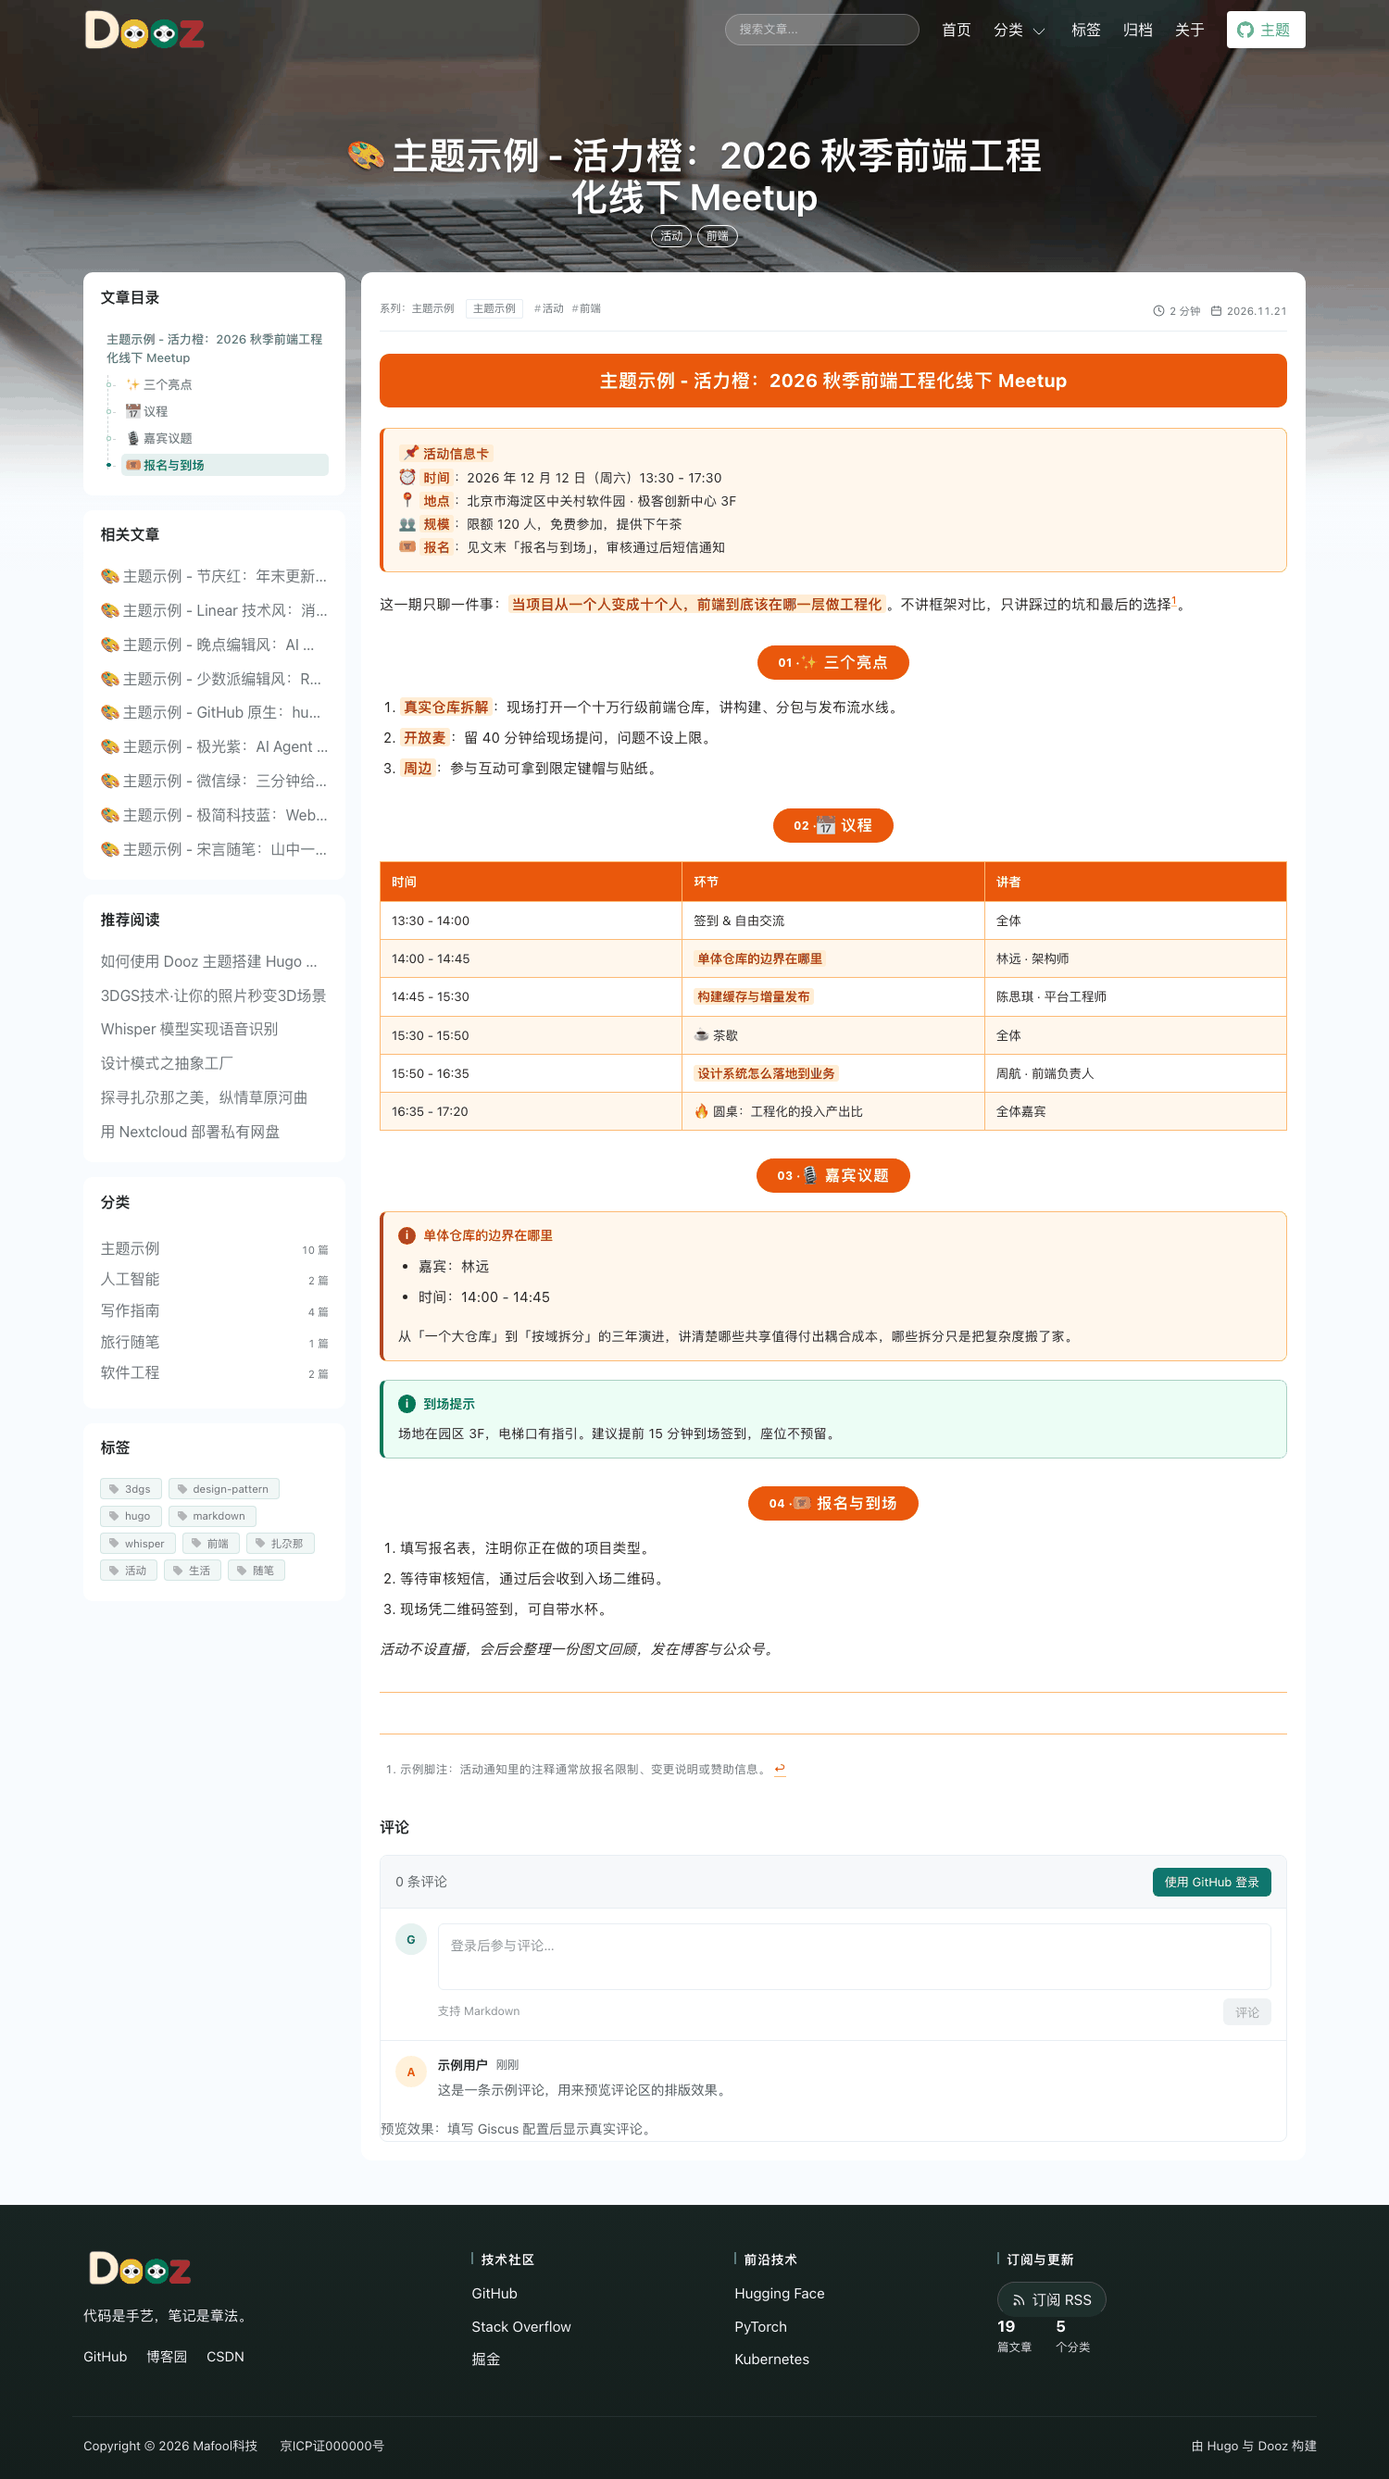
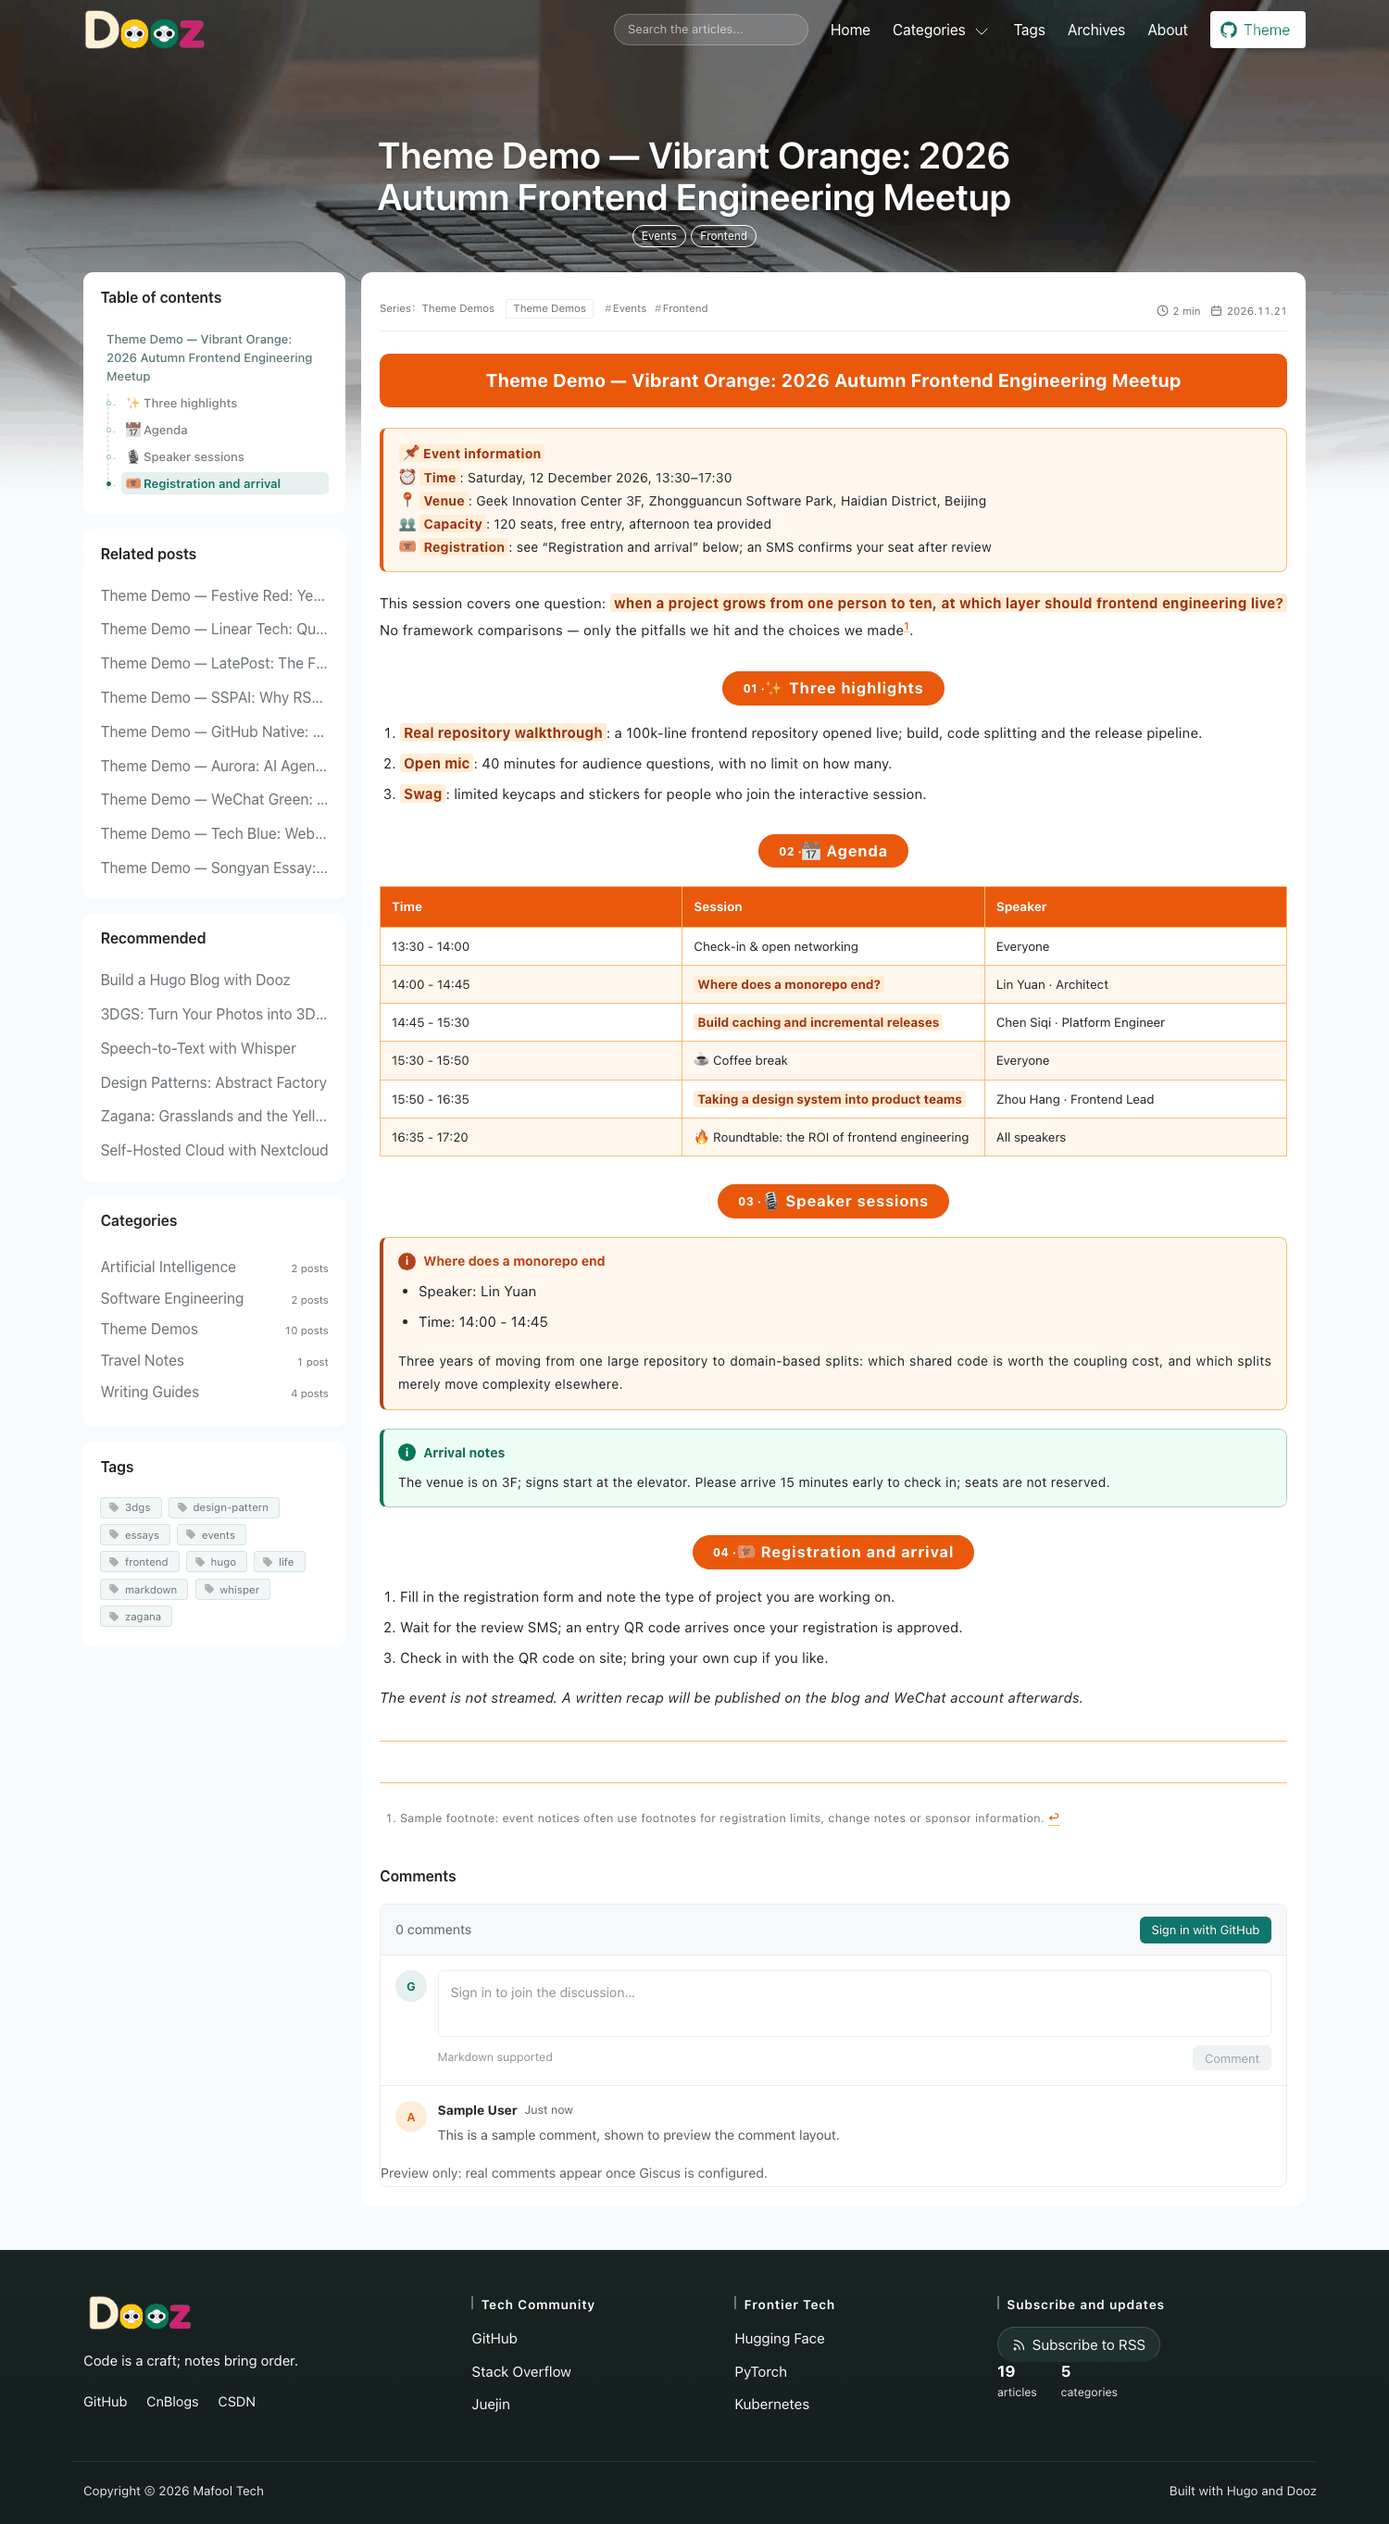
chore: streamline README quick start with example site section and link badges, update preview images

diff --git a/README.md b/README.md
@@ -1,40 +1,53 @@
 <div align="center">
 <img src="https://github.com/hollson/hugo-theme-dooz/blob/master/static/assets/logo2.png?raw=true" width="180" alt="Dooz Logo"><br/>
-<img src="https://img.shields.io/badge/Hugo-0.158%2B-ff4088?style=flat-square&logo=hugo&logoColor=white" alt="Hugo">
-<img src="https://img.shields.io/badge/Hugo%20Theme-Dooz-07c160?style=flat-square" alt="Hugo Theme">
-<img src="https://img.shields.io/badge/Markdown-supported-000000?style=flat-square&logo=markdown&logoColor=white" alt="Markdown">
-<img src="https://img.shields.io/badge/Typography-10%20themes-6f42c1?style=flat-square" alt="Typography">
-<img src="https://img.shields.io/badge/License-MIT-green?style=flat-square" alt="License">
+<a href="https://gohugo.io/"><img src="https://img.shields.io/badge/Hugo-0.158%2B-ff4088?style=flat-square&logo=hugo&logoColor=white" alt="Hugo"></a>
+<a href="https://github.com/hollson/hugo-theme-dooz"><img src="https://img.shields.io/badge/Hugo%20Theme-Dooz-07c160?style=flat-square" alt="Hugo Theme"></a>
+<a href="https://commonmark.org/"><img src="https://img.shields.io/badge/Markdown-supported-000000?style=flat-square&logo=markdown&logoColor=white" alt="Markdown"></a>
+<a href="https://github.com/hollson/hugo-theme-dooz/tree/master/exampleSite/content/post"><img src="https://img.shields.io/badge/Typography-10%20themes-6f42c1?style=flat-square" alt="Typography"></a>
+<a href="https://github.com/hollson/hugo-theme-dooz/blob/master/LICENSE"><img src="https://img.shields.io/badge/License-MIT-green?style=flat-square" alt="License"></a>
 <br/>
-<b>A Hugo blog theme built for reading, with typography you can pick per article</b>
+<b>A Hugo blog theme built for reading and free to customize</b>
 <br/>
 <a href="README.md">English</a> | <a href="README.zh.md">中文</a>
 <br/><br/>
 </div>
 
 
-Dooz is a Hugo blog theme focused on reading and writing: write in Markdown, pick one of ten typography styles for each article, and get search, table of contents and comments out of the box.
+Dooz is a [Hugo](https://gohugo.io) blog theme built for reading and writing: posts in Markdown, typography switchable per article, and search, table of contents and comments ready out of the box.
 
-<br/>
+---
 
-<div align="center">
-<!-- Preview images live in images/ -->
-<img src="https://github.com/hollson/hugo-theme-dooz/blob/master/images/screenshot.png?raw=true" width="100%" alt="Home page preview">
-<br/>
-<img src="https://github.com/hollson/hugo-theme-dooz/blob/master/images/preview-article.png?raw=true" width="100%" alt="Article page preview">
-<br/>
-<sub>Left: home list　Right: article page (any of ten typography styles)</sub>
-</div>
+![Home page preview](https://github.com/hollson/hugo-theme-dooz/blob/master/images/screenshot.png?raw=true)
+
 
 <br/>
 
 ## Quick start
 
-Requires Hugo 0.158 or newer.
+> Requires Hugo 0.158 or newer.
 
 **1. Install Hugo**: follow the [official guide](https://gohugo.io/installation/) for your platform. Run `hugo version` afterwards; a version number means it is ready.
 
-**2. Create a site and add the theme**
+**2. Try the example site**: see the result before building your own. It contains nearly twenty posts and covers every typography style.
+
+```bash
+git clone --depth 1 https://github.com/hollson/hugo-theme-dooz.git
+cd hugo-theme-dooz
+
+# Shortcut: start the example site (port 1314)
+make run
+```
+
+Without make, or to start it manually:
+
+```bash
+cd exampleSite
+hugo server --themesDir ../.. -p 1314
+```
+
+Open `http://localhost:1314` to browse the home page, article page, categories, tags, search and sidebar. Delete the folder when you are done.
+
+**3. Create your site and add the theme**
 
 ```bash
 hugo new site my-blog
@@ -46,28 +59,20 @@ git submodule add https://github.com/hollson/hugo-theme-dooz themes/hugo-theme-d
 
 # Use the prepared example configuration
 cp themes/hugo-theme-dooz/exampleSite/config.toml .
-```
 
-**3. Preview locally**
-
-```bash
+# Preview locally
 hugo server -D
 ```
 
-Open `http://localhost:1313` and you get a complete blog with posts, categories, tags, search and a sidebar.
-
-To explore first, run the example site instead. It contains nearly twenty posts and covers all ten typography styles:
-
-```bash
-cd themes/hugo-theme-dooz/exampleSite
-hugo server --themesDir ../..
-```
+Open `http://localhost:1313` again: this is now your own site. Configuration, posts and styles can be replaced step by step.
 
 <br/>
 
 ## Writing and formatting
 
-Posts live in `content/post/`. The command below creates a new post from the theme's archetype, with comments explaining each field:
+![Article page preview](https://github.com/hollson/hugo-theme-dooz/blob/master/images/preview-article.png?raw=true)
+
+Posts live in `content/post/`. The command below creates a post from the theme's archetype, with comments explaining each field:
 
 ```bash
 hugo new post/hello.md
@@ -78,9 +83,9 @@ hugo new post/hello.md
 title: "My first post"
 date: 2026-01-01T10:00:00+08:00
 description: "One sentence summarising the post, used in lists and search results."
-tags: ["notes"]
+tags: ["Notes"]
 cover_image: "/post/cover.jpg"   # list thumbnail, optional
-mdTheme: "essay-songyan"         # typography style for this post, optional
+mdTheme: "essay-songyan"         # typography for this post, optional
 pinned: false                    # pin to top
 weight: 100                      # lower value ranks higher
 ---
@@ -92,16 +97,16 @@ What the common fields do:
 | :--- | :--- |
 | `title` / `date` | Title and publish time; lists are ordered newest first |
 | `description` | Summary shown in lists and search results |
-| `tags` / `categories` | Tags and categories; taxonomy pages are generated automatically |
+| `tags` / `categories` | Tags and categories; archive pages are generated automatically |
 | `cover_image` | List thumbnail; without it the card is text only |
-| `mdTheme` | Typography style for this post, overriding the site default |
+| `mdTheme` | Typography for this post, overriding the site default |
 | `pinned` / `weight` | Pinning and ordering; `weight` defaults to 100 when omitted |
 
-Body text uses standard Markdown: headings, lists, tables, images, blockquotes, task lists and code blocks all work directly. Code blocks detect the language, support one-click copy and collapse long code; for diagrams or formulas, add `libraries: ["mermaid"]` or `["katex"]` to load them on demand.
+Body text uses standard Markdown: headings, lists, tables, images, blockquotes, task lists and code blocks all work directly. Code blocks detect the language and support one-click copy and long-code folding; for diagrams or formulas, add `libraries: ["mermaid"]` or `["katex"]` to load them on demand.
 
 <br/>
 
-## Styles and appearance
+## Styles
 
 **Typography** can be set per post or as a site-wide default:
 
@@ -115,7 +120,7 @@ mdTheme: "dev-linear"
   markdownTheme = "dev-linear"
 ```
 
-Ten styles by use case:
+Styles by use case:
 
 - Product reviews and long-form analysis: `editorial-sspai`, `editorial-latepost`
 - Essays, notes and book reviews: `essay-songyan`
@@ -124,22 +129,22 @@ Ten styles by use case:
 - Holiday announcements and year-end reviews: `daily-festive-red`
 - Manuals and configuration guides: `plain-github`
 
-**Color themes**: five presets, one parameter for the whole site:
+**Color themes** are optional; one parameter changes the whole site:
 
 ```toml
 [params]
   themeName = "navy"   # default / amber / navy / purple / terracotta
 ```
 
-**Site details**: title, author, avatar, slogan, footer and social accounts are all in `config.toml`, each field annotated. Search, table of contents, comments and the remote announcement are preconfigured; comments start working once your own repository details are filled in.
+**Site details**: title, author, avatar, slogan, footer and social accounts are set in `config.toml`, each field annotated. Search, table of contents, comments and the remote announcement are preconfigured; comments start working once your own repository details are filled in.
 
 <br/>
 
 ## Publishing
 
-From writing locally to binding a domain and deploying automatically, the full steps are in this example post: [**Build and publish a Hugo blog →**](exampleSite/content/post/hugo-static-blog-guide.md)
+From local writing to domain binding and automated deployment, the full steps are in this example post: [**Building and publishing a Hugo blog →**](exampleSite/content/post/hugo-static-blog-guide.md)
 
-GitHub Pages, Vercel and Netlify all work; free tiers are usually enough for a personal blog.
+GitHub Pages, Vercel and Netlify all work; free tiers usually cover a personal blog.
 
 <br/>
 
@@ -147,10 +152,8 @@ GitHub Pages, Vercel and Netlify all work; free tiers are usually enough for a p
 
 Found a problem or have a suggestion? [Open an issue](https://github.com/hollson/hugo-theme-dooz/issues). If the theme helps you, a **Star** is appreciated.
 
-Please remove real personal QR codes, email addresses and phone numbers from examples, screenshots and docs before submitting.
-
 <br/>
 
 ## License
 
-This theme is released under the [MIT](LICENSE) license.
+Released under the [MIT](LICENSE) license.

diff --git a/README.zh.md b/README.zh.md
@@ -1,10 +1,10 @@
 <div align="center">
 <img src="https://github.com/hollson/hugo-theme-dooz/blob/master/static/assets/logo2.png?raw=true" width="180" alt="Dooz Logo"><br/>
-<img src="https://img.shields.io/badge/Hugo-0.158%2B-ff4088?style=flat-square&logo=hugo&logoColor=white" alt="Hugo">
-<img src="https://img.shields.io/badge/Hugo%20Theme-Dooz-07c160?style=flat-square" alt="Hugo Theme">
-<img src="https://img.shields.io/badge/Markdown-supported-000000?style=flat-square&logo=markdown&logoColor=white" alt="Markdown">
-<img src="https://img.shields.io/badge/Typography-10%20themes-6f42c1?style=flat-square" alt="Typography">
-<img src="https://img.shields.io/badge/License-MIT-green?style=flat-square" alt="License">
+<a href="https://gohugo.io/"><img src="https://img.shields.io/badge/Hugo-0.158%2B-ff4088?style=flat-square&logo=hugo&logoColor=white" alt="Hugo"></a>
+<a href="https://github.com/hollson/hugo-theme-dooz"><img src="https://img.shields.io/badge/Hugo%20Theme-Dooz-07c160?style=flat-square" alt="Hugo Theme"></a>
+<a href="https://commonmark.org/"><img src="https://img.shields.io/badge/Markdown-supported-000000?style=flat-square&logo=markdown&logoColor=white" alt="Markdown"></a>
+<a href="https://github.com/hollson/hugo-theme-dooz/tree/master/exampleSite/content/post"><img src="https://img.shields.io/badge/Typography-10%20themes-6f42c1?style=flat-square" alt="Typography"></a>
+<a href="https://github.com/hollson/hugo-theme-dooz/blob/master/LICENSE"><img src="https://img.shields.io/badge/License-MIT-green?style=flat-square" alt="License"></a>
 <br/>
 <b>一款注重阅读体验、可自由定制的 Hugo 博客主题</b>
 <br/>
@@ -17,22 +17,37 @@ Dooz 是一款专注阅读与写作的 [Hugo](https://gohugo.io) 博客主题：
 
 ---
 
-<div align="left">
-<img src="https://github.com/hollson/hugo-theme-dooz/blob/master/images/screenshot.png?raw=true" width="100%" alt="首页预览">
-<hr/>
-<img src="https://github.com/hollson/hugo-theme-dooz/blob/master/images/preview-article.png?raw=true" width="100%" alt="文章页预览">
-</div>
+![首页预览](https://github.com/hollson/hugo-theme-dooz/blob/master/images/screenshot-zh.png?raw=true)
 
 
 <br/>
 
 ## 快速上手
 
-只需 Hugo 0.158 或更高版本。
+> 只需 Hugo 0.158 或更高版本。
 
 **1. 安装 Hugo**：按[官方文档](https://gohugo.io/installation/)选择对应系统的安装方式。安装完成后执行 `hugo version`，能输出版本号即表示安装成功。
 
-**2. 创建站点并引入主题**
+**2. 体验示例站**：先看效果再决定怎么搭，示例站包含近二十篇文章，覆盖全部多套正文样式。
+
+```bash
+git clone --depth 1 https://github.com/hollson/hugo-theme-dooz.git
+cd hugo-theme-dooz
+
+# 快捷方式：启动示例站（端口 1314）
+make run
+```
+
+没有安装 make，或想手动启动时，进入示例站目录执行：
+
+```bash
+cd exampleSite
+hugo server --themesDir ../.. -p 1314
+```
+
+访问 `http://localhost:1314` 即可浏览首页、文章页、分类、标签、搜索与侧栏。体验完可直接删除该目录。
+
+**3. 创建自己的站点并引入主题**
 
 ```bash
 hugo new site my-blog
@@ -44,27 +59,18 @@ git submodule add https://github.com/hollson/hugo-theme-dooz themes/hugo-theme-d
 
 # 使用已配置好的示例配置
 cp themes/hugo-theme-dooz/exampleSite/config.toml .
-```
 
-**3. 本地预览**
-
-```bash
-# 使用hugo命令
+# 本地预览
 hugo server -D
 ```
 
-访问 `http://localhost:1313`，即可看到一个包含文章、分类、标签、搜索与侧栏的完整博客。
-
-如需先查看效果，可直接运行示例站。示例站包含近二十篇文章，覆盖全部多套正文样式：
-
-```bash
-cd themes/hugo-theme-dooz/exampleSite
-hugo server --themesDir ../..
-```
+再次访问 `http://localhost:1313`，看到的就是你自己的站点，配置、文章与样式都可以逐步替换。
 
 <br/>
 
 ## 写作与排版
+
+![文章页预览](https://github.com/hollson/hugo-theme-dooz/blob/master/images/preview-article-zh.png?raw=true)
 
 文章放在 `content/post/` 目录下。执行下面的命令会按主题模板生成一篇带注释的新文章，填写 front matter 后即可写作：
 
